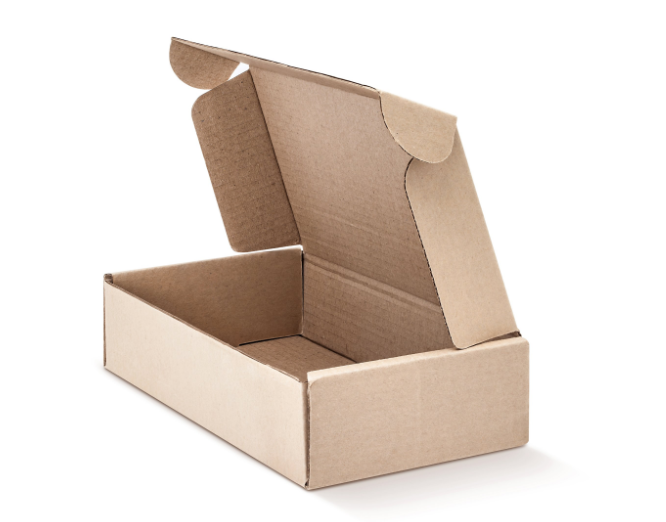
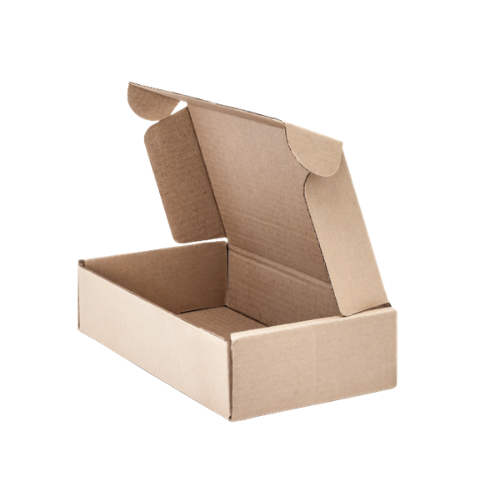
poprawnienie grafiki oraz dodanie animacji

diff --git a/resources/views/contacts.blade.php b/resources/views/contacts.blade.php
@@ -9,30 +9,62 @@
 @endsection
     
 @section('content')
-<section id="contact-details" class="bg-gray-100 pt-8">
+<section id="contact-details" class="py-12" data-aos="fade-up">
     <div class="container mx-auto px-4 py-12">
 
-        <h2 class="mb-4 text-2xl font-bold text-gray-900">Kontak do biura</h2>
-        <p class="text-gray-600">
-            <a href="mailto:biuro@marpol-opakowania.pl" class="hover:text-blue-600">biuro@marpol-opakowania.pl</a>
-        </p>
-        <p class="text-gray-600">
-            <a href="tel:+48600600600" class="hover:text-blue-600">+48 600 600 600</a>
-        </p>
+        <div class="grid gap-8 md:grid-cols-2">
+            <div class="flex flex-col items-center rounded-2xl bg-white/80 shadow-sm ring-1 ring-gray-200/60 p-8 text-center" data-aos="flip-up" data-aos-delay="100">
+                <div class="mb-4 inline-flex h-16 w-16 items-center justify-center rounded-full bg-blue-500/10">
+                    <img src="{{ asset('assets/images/icons/company.png') }}" alt="Ikona biura" class="h-10 w-10 object-contain">
+                </div>
+                <h2 class="text-lg font-semibold text-gray-900 mb-2">Kontakt do biura</h2>
+                <p class="text-sm text-gray-600 mb-4">
+                    Biuro obsługi klienta – informacje ogólne i administracyjne.
+                </p>
+                <div class="space-y-2 text-sm text-gray-700">
+                    <p>
+                        <a href="mailto:kontakt@marpol-opakowania.pl" class="inline-flex items-center justify-center gap-2 hover:text-blue-600">
+                            <img src="{{ asset('assets/images/icons/mail.png') }}" alt="" class="h-4 w-4">
+                            <span>kontakt@marpol-opakowania.pl</span>
+                        </a>
+                    </p>
+                    <p>
+                        <a href="tel:+48600600600" class="inline-flex items-center justify-center gap-2 hover:text-blue-600">
+                            <img src="{{ asset('assets/images/icons/phone.png') }}" alt="" class="h-4 w-4">
+                            <span>+48 600 600 600</span>
+                        </a>
+                    </p>
+                </div>
+            </div>
 
-
-
-        <h2 class="mb-4 text-2xl font-bold text-gray-900">Kontakt do działu sprzedaży</h2>
-        <p class="text-gray-600">
-            <a href="mailto:sprzedaz@marpol-opakowania.pl" class="hover:text-blue-600">sprzedaz@marpol-opakowania.pl</a>
-        </p>
-        <p class="text-gray-600">
-            <a href="tel:+48600600600" class="hover:text-blue-600">+48 600 600 600</a>
-        </p>
+            <div class="flex flex-col items-center rounded-2xl bg-white/80 shadow-sm ring-1 ring-gray-200/60 p-8 text-center" data-aos="flip-up" data-aos-delay="200">
+                <div class="mb-4 inline-flex h-16 w-16 items-center justify-center rounded-full bg-emerald-500/10">
+                    <img src="{{ asset('assets/images/icons/sales.png') }}" alt="Ikona działu sprzedaży" class="h-10 w-10 object-contain">
+                </div>
+                <h2 class="text-lg font-semibold text-gray-900 mb-2">Kontakt do działu sprzedaży</h2>
+                <p class="text-sm text-gray-600 mb-4">
+                    Zapytania ofertowe, wyceny opakowań oraz bieżąca obsługa zamówień.
+                </p>
+                <div class="space-y-2 text-sm text-gray-700">
+                    <p>
+                        <a href="mailto:sprzedaz@marpol-opakowania.pl" class="inline-flex items-center justify-center gap-2 hover:text-blue-600">
+                            <img src="{{ asset('assets/images/icons/mail.png') }}" alt="" class="h-4 w-4">
+                            <span>sprzedaz@marpol-opakowania.pl</span>
+                        </a>
+                    </p>
+                    <p>
+                        <a href="tel:+48600600600" class="inline-flex items-center justify-center gap-2 hover:text-blue-600">
+                            <img src="{{ asset('assets/images/icons/phone.png') }}" alt="" class="h-4 w-4">
+                            <span>+48 600 600 600</span>
+                        </a>
+                    </p>
+                </div>
+            </div>
+        </div>
 
 </section>
 
-<section id="contact-form" class="bg-gray-100 pt-8">
+<section id="contact-form" class="py-12" data-aos="fade-up">
     <div class="container mx-auto px-4 py-12">
         
 
@@ -45,7 +77,7 @@
         <div class="grid gap-10 md:grid-cols-2 items-stretch">
 
             <!-- Lewa kolumna: nagłówek + formularz -->
-            <div class="flex flex-col">
+            <div class="flex flex-col" data-aos="flip-up" data-aos-delay="100">
                 <h2 class="mb-4 text-2xl font-bold text-gray-900">Formularz kontaktowy</h2>
                 <form
                     id="contact-form"
@@ -63,7 +95,7 @@
                         value="{{ old('name') }}"
                         required
                         class="block w-full rounded-base border border-default bg-gray-50 px-3 py-2 text-sm text-gray-900 focus:border-brand focus:ring-brand @error('name') border-red-500 focus:border-red-500 focus:ring-red-500 @enderror"
-                        placeholder="Twoje imię i nazwisko"
+                        placeholder="Jan Kowalski..."
                     >
                     @error('name')
                         <p class="mt-1 text-xs text-red-600">{{ $message }}</p>
@@ -79,7 +111,7 @@
                         value="{{ old('email') }}"
                         required
                         class="block w-full rounded-base border border-default bg-gray-50 px-3 py-2 text-sm text-gray-900 focus:border-brand focus:ring-brand @error('email') border-red-500 focus:border-red-500 focus:ring-red-500 @enderror"
-                        placeholder="twoj.email@example.com"
+                        placeholder="jan.kowalski@example.com..."
                     >
                     @error('email')
                         <p class="mt-1 text-xs text-red-600">{{ $message }}</p>
@@ -94,7 +126,7 @@
                         name="phone"
                         value="{{ old('phone') }}"
                         class="block w-full rounded-base border border-default bg-gray-50 px-3 py-2 text-sm text-gray-900 focus:border-brand focus:ring-brand @error('phone') border-red-500 focus:border-red-500 focus:ring-red-500 @enderror"
-                        placeholder="+48 123 456 789"
+                        placeholder="+48 123 456 789..."
                     >
                     @error('phone')
                         <p class="mt-1 text-xs text-red-600">{{ $message }}</p>
@@ -138,7 +170,7 @@
             </div>
 
             <!-- Prawa kolumna: nagłówek + mapa -->
-            <div class="flex flex-col">
+            <div class="flex flex-col" data-aos="flip-up" data-aos-delay="200">
                 <h2 class="mb-4 text-2xl font-bold text-gray-900">Nasza lokalizacja</h2>
                 <div class="flex-1 overflow-hidden rounded-2xl shadow-sm ring-1 ring-gray-200/70">
                     <iframe

diff --git a/resources/views/home.blade.php b/resources/views/home.blade.php
@@ -76,19 +76,19 @@
                 <div class="grid grid-cols-2 sm:grid-cols-2 gap-6 md:gap-8 justify-items-center">
                     
                     <a href="https://hellermanntyton.pl" target="_blank" rel="noopener noreferrer" data-aos="flip-up" data-aos-delay="100">
-                        <img src="{{ asset('assets/images/ht_logo.png') }}" alt="HellermannTyton"
+                        <img src="{{ asset('assets/images/logos/ht-logo.png') }}" alt="HellermannTyton"
                              class="h-18 md:h-24 w-auto object-contain grayscale hover:grayscale-0 opacity-80 hover:opacity-100 transition-all">
                     </a>
                     <a href="http://ceglewski.com.pl/" target="_blank" rel="noopener noreferrer" data-aos="flip-up" data-aos-delay="200">
-                        <img src="{{ asset('assets/images/ceglewski_logo.png') }}" alt="Meble Ceglewski"
+                        <img src="{{ asset('assets/images/logos/ceglewski-logo.png') }}" alt="Meble Ceglewski"
                              class="h-18 md:h-24 w-auto object-contain grayscale hover:grayscale-0 opacity-80 hover:opacity-100 transition-all">
                     </a>
                     <a href="https://smu.com.pl" target="_blank" rel="noopener noreferrer" data-aos="flip-up" data-aos-delay="300">
-                        <img src="{{ asset('assets/images/smu_logo.png') }}" alt="Mleczarnia Strzałkowo"
+                        <img src="{{ asset('assets/images/logos/smu-logo.png') }}" alt="Mleczarnia Strzałkowo"
                              class="h-18 md:h-24 w-auto object-contain grayscale hover:grayscale-0 opacity-80 hover:opacity-100 transition-all">
                     </a>
                     <a href="https://intermeble.pl" target="_blank" rel="noopener noreferrer" data-aos="flip-up" data-aos-delay="400">
-                        <img src="{{ asset('assets/images/inter_logo.png') }}" alt="Intermeble"
+                        <img src="{{ asset('assets/images/logos/intermeble-logo.png') }}" alt="Intermeble"
                              class="h-18 md:h-24 w-auto object-contain grayscale hover:grayscale-0 opacity-80 hover:opacity-100 transition-all">
                     </a>
                 </div>
@@ -102,7 +102,7 @@
             <div class="grid gap-4 sm:gap-6 md:grid-cols-4">
                 <article class="bg-white rounded-xl shadow-sm ring-1 ring-gray-200/70 overflow-hidden flex flex-col" data-aos="flip-up" data-aos-delay="100">
                     <a href="/produkty/kartony-klapowe" class="block aspect-[4/3] overflow-hidden bg-gray-200">
-                        <img src="{{ asset('assets/images/kartony-klapowe.png') }}" alt="Kartony klapowe" class="w-full h-full object-cover hover:scale-105 transition-transform duration-300">
+                        <img src="{{ asset('assets/images/kartony-klapowe.png') }}" alt="Kartony klapowe" class="w-full h-full object-cover hover:scale-105 transition-transform duration-300 bg-white">
                     </a>
                     <div class="p-4 flex flex-col flex-1">
                         <h3 class="text-base font-semibold text-gray-900 mb-2">Kartony klapowe</h3>
@@ -113,7 +113,7 @@
                 </article>
                 <article class="bg-white rounded-xl shadow-sm ring-1 ring-gray-200/70 overflow-hidden flex flex-col" data-aos="flip-up" data-aos-delay="200">
                     <a href="/produkty/kartony-fasonowe" class="block aspect-[4/3] overflow-hidden bg-gray-200">
-                        <img src="{{ asset('assets/images/kartony-fasonowe.png') }}" alt="Kartony fasonowe" class="w-full h-full object-cover hover:scale-105 transition-transform duration-300">
+                        <img src="{{ asset('assets/images/kartony-fasonowe.png') }}" alt="Kartony fasonowe" class="w-full h-full object-cover hover:scale-105 transition-transform duration-300 bg-white">
                     </a>
                     <div class="p-4 flex flex-col flex-1">
                         <h3 class="text-base font-semibold text-gray-900 mb-2">Kartony fasonowe</h3>
@@ -124,7 +124,7 @@
                 </article>
                 <article class="bg-white rounded-xl shadow-sm ring-1 ring-gray-200/70 overflow-hidden flex flex-col" data-aos="flip-up" data-aos-delay="300">
                     <a href="/produkty/tektury" class="block aspect-[4/3] overflow-hidden bg-gray-200">
-                        <img src="{{ asset('assets/images/tektury.png') }}" alt="Tektury" class="w-full h-full object-cover hover:scale-105 transition-transform duration-300">
+                        <img src="{{ asset('assets/images/tektury.png') }}" alt="Tektury" class="w-full h-full object-cover hover:scale-105 transition-transform duration-300 bg-white">
                     </a>
                     <div class="p-4 flex flex-col flex-1">
                         <h3 class="text-base font-semibold text-gray-900 mb-2">Tektury</h3>
@@ -135,7 +135,7 @@
                 </article>
                 <article class="bg-white rounded-xl shadow-sm ring-1 ring-gray-200/70 overflow-hidden flex flex-col" data-aos="flip-up" data-aos-delay="400">
                     <a href="/produkty/wypelniacze" class="block aspect-[4/3] overflow-hidden bg-gray-200">
-                        <img src="{{ asset('assets/images/wypelniacze.png') }}" alt="Wypełniacze opakowań" class="w-full h-full object-cover hover:scale-105 transition-transform duration-300">
+                        <img src="{{ asset('assets/images/wypelniacze.png') }}" alt="Wypełniacze opakowań" class="w-full h-full object-cover hover:scale-105 transition-transform duration-300 bg-white">
                     </a>
                     <div class="p-4 flex flex-col flex-1">
                         <h3 class="text-base font-semibold text-gray-900 mb-2">Wypełniacze opakowań</h3>

diff --git a/resources/views/products.blade.php b/resources/views/products.blade.php
@@ -9,5 +9,106 @@
 @endsection
     
 @section('content')
+<section class="bg-gray-100 py-12">
+    <div class="container mx-auto px-4 space-y-12">
+
+        {{-- Kartony klapowe --}}
+        <div class="flex flex-col md:flex-row items-center gap-8 md:gap-12">
+            <div class="md:w-1/2 flex justify-center" data-aos="fade-right" data-aos-delay="100">
+                <img
+                    src="{{ asset('assets/images/kartony-klapowe.png') }}"
+                    alt="Kartony klapowe"
+                    class="max-w-md w-full object-contain"
+                >
+            </div>
+            <div class="md:w-1/2 space-y-4" data-aos="fade-up">
+                <h2 class="text-2xl font-bold text-gray-900">Kartony klapowe</h2>
+                <p class="text-sm md:text-base text-gray-700">
+                    Klasyczne kartony klapowe do transportu i magazynowania produktów – dostępne w wielu rozmiarach
+                    i gramaturach tektury, z możliwością dostosowania do Twoich wymagań logistycznych.
+                </p>
+                <a
+                    href="/produkty/kartony-klapowe"
+                    class="inline-flex items-center justify-center rounded-lg bg-black px-4 py-2.5 text-sm font-medium text-white hover:bg-black/80 transition-colors"
+                >
+                    Dowiedz się więcej
+                </a>
+            </div>
+        </div>
+
+        {{-- Kartony fasonowe --}}
+        <div class="flex flex-row-reverse items-center gap-8 md:gap-12">
+            <div class="md:w-1/2 flex justify-center" data-aos="fade-left" data-aos-delay="100">
+                <img
+                    src="{{ asset('assets/images/kartony-fasonowe.png') }}"
+                    alt="Kartony fasonowe"
+                    class="max-w-md w-full object-contain"
+                >
+            </div>
+            <div class="md:w-1/2 space-y-4" data-aos="fade-up">
+                <h2 class="text-2xl font-bold text-gray-900">Kartony fasonowe</h2>
+                <p class="text-sm md:text-base text-gray-700">
+                    Opakowania fasonowe dopasowane do kształtu produktu – estetyczne, wygodne w składaniu
+                    i idealne do wysyłek e‑commerce lub ekspozycji na półce.
+                </p>
+                <a
+                    href="/produkty/kartony-fasonowe"
+                    class="inline-flex items-center justify-center rounded-lg bg-black px-4 py-2.5 text-sm font-medium text-white hover:bg-black/80 transition-colors"
+                >
+                    Dowiedz się więcej
+                </a>
+            </div>
+        </div>
+
+        {{-- Tektury --}}
+        <div class="flex flex-col md:flex-row items-center gap-8 md:gap-12">
+            <div class="md:w-1/2 flex justify-center" data-aos="fade-right" data-aos-delay="100">
+                <img
+                    src="{{ asset('assets/images/tektury.png') }}"
+                    alt="Tektury"
+                    class="max-w-md w-full object-contain"
+                >
+            </div>
+            <div class="md:w-1/2 space-y-4" data-aos="fade-up">
+                <h2 class="text-2xl font-bold text-gray-900">Tektury</h2>
+                <p class="text-sm md:text-base text-gray-700">
+                    Tektury lite i faliste do przekładek, zabezpieczeń oraz indywidualnych projektów opakowań.
+                    Dobieramy strukturę i gramaturę do wymagań produktu.
+                </p>
+                <a
+                    href="/produkty/tektury"
+                    class="inline-flex items-center justify-center rounded-lg bg-black px-4 py-2.5 text-sm font-medium text-white hover:bg-black/80 transition-colors"
+                >
+                    Dowiedz się więcej
+                </a>
+            </div>
+        </div>
+
+        {{-- Wypełniacze --}}
+        <div class="flex flex-row-reverse items-center gap-8 md:gap-12">
+            <div class="md:w-1/2 flex justify-center" data-aos="fade-left" data-aos-delay="100">
+                <img
+                    src="{{ asset('assets/images/wypelniacze.png') }}"
+                    alt="Wypełniacze opakowań"
+                    class="max-w-md w-full object-contain"
+                >
+            </div>
+            <div class="md:w-1/2 space-y-4" data-aos="fade-up">
+                <h2 class="text-2xl font-bold text-gray-900">Wypełniacze opakowań</h2>
+                <p class="text-sm md:text-base text-gray-700">
+                    Papierowe i kartonowe wypełniacze, które stabilizują produkt w kartonie i chronią go
+                    przed uszkodzeniami podczas transportu.
+                </p>
+                <a
+                    href="/produkty/wypelniacze"
+                    class="inline-flex items-center justify-center rounded-lg bg-black px-4 py-2.5 text-sm font-medium text-white hover:bg-black/80 transition-colors"
+                >
+                    Dowiedz się więcej
+                </a>
+            </div>
+        </div>
+
+    </div>
+</section>
     
 @endsection

diff --git a/resources/views/about.blade.php b/resources/views/about.blade.php
@@ -20,7 +20,7 @@ Trochę o naszej historii oraz naszych wartościach.
             <!-- Rozwój -->
             <div class="flex flex-col items-center rounded-2xl bg-white/80 shadow-sm ring-1 ring-gray-200/60 p-8 text-center" data-aos="flip-up" data-aos-delay="100">
                 <div class="mb-5 inline-flex h-20 w-20 items-center justify-center rounded-full bg-blue-500/10">
-                    <img src="{{ asset('assets/images/chart.png') }}" alt="Rozwój" class="h-16 w-16 object-contain rounded-full">
+                    <img src="{{ asset('assets/images/icons/chart.png') }}" alt="Rozwój" class="h-16 w-16 object-contain rounded-full">
                 </div>
                 <h3 class="mb-3 text-xl font-semibold text-gray-900">Rozwój</h3>
                 <p class="text-sm text-gray-600">
@@ -32,7 +32,7 @@ Trochę o naszej historii oraz naszych wartościach.
             <!-- Trwałe rozwiązania -->
             <div class="flex flex-col items-center rounded-2xl bg-white/80 shadow-sm ring-1 ring-gray-200/60 p-8 text-center" data-aos="flip-up" data-aos-delay="200">
                 <div class="mb-5 inline-flex h-20 w-20 items-center justify-center rounded-full bg-yellow-500/10">
-                    <img src="{{ asset('assets/images/delivery-box.png') }}" alt="Trwałe rozwiązania" class="h-16 w-16 object-contain">
+                    <img src="{{ asset('assets/images/icons/box.png') }}" alt="Trwałe rozwiązania" class="h-16 w-16 object-contain">
                 </div>
                 <h3 class="mb-3 text-xl font-semibold text-gray-900">Trwałe rozwiązania</h3>
                 <p class="text-sm text-gray-600">
@@ -44,7 +44,7 @@ Trochę o naszej historii oraz naszych wartościach.
             <!-- Ekologia -->
             <div class="flex flex-col items-center rounded-2xl bg-white/80 shadow-sm ring-1 ring-gray-200/60 p-8 text-center" data-aos="flip-up" data-aos-delay="300">
                 <div class="mb-5 inline-flex h-20 w-20 items-center justify-center rounded-full bg-emerald-500/10">
-                    <img src="{{ asset('assets/images/eco-icon.png') }}" alt="Ekologia" class="h-16 w-16 object-contain">
+                    <img src="{{ asset('assets/images/icons/eco.png') }}" alt="Ekologia" class="h-16 w-16 object-contain">
                 </div>
                 <h3 class="mb-3 text-xl font-semibold text-gray-900">Ekologia</h3>
                 <p class="text-sm text-gray-600">

diff --git a/resources/views/partials/navbar.blade.php b/resources/views/partials/navbar.blade.php
@@ -3,7 +3,7 @@
         <!-- Logo z lewej -->
         <div class="flex items-center">
             <a href="{{ url('/') }}" class="flex items-center space-x-3 rtl:space-x-reverse">
-                <img src="{{ asset('assets/images/logo.png') }}" class="h-20 w-auto" alt="Logo" />
+                <img src="{{ asset('assets/images/logos/marpol-logo.png') }}" class="h-20 w-auto" alt="Logo" />
             </a>
         </div>
 
@@ -12,7 +12,6 @@
             <div class="hidden md:flex md:space-x-8 rtl:space-x-reverse">
                 <a href="/o-nas" class="block py-2 px-3 text-lg text-heading rounded hover:bg-neutral-tertiary md:hover:bg-transparent md:border-0 md:hover:text-fg-brand md:p-0">O nas</a>
                 <a href="/produkty" class="block py-2 px-3 text-lg text-heading rounded hover:bg-neutral-tertiary md:hover:bg-transparent md:border-0 md:hover:text-fg-brand md:p-0">Produkty</a>
-                <a href="/procesy" class="block py-2 px-3 text-lg text-heading rounded hover:bg-neutral-tertiary md:hover:bg-transparent md:border-0 md:hover:text-fg-brand md:p-0">Procesy</a>
                 <a href="/kontakt" class="block py-2 px-3 text-lg text-heading rounded hover:bg-neutral-tertiary md:hover:bg-transparent md:border-0 md:hover:text-fg-brand md:p-0">Kontakt</a>
             </div>
         </div>

diff --git a/routes/web.php b/routes/web.php
@@ -28,8 +28,8 @@ Route::get('/produkty/wypelniacze', function () {
     return view('products.filling');
 });
 
-Route::get('/procesy', function () {
-    return view('processes');
+Route::get('/polityka-prywatnosci', function () {
+    return view('privacy');
 });
 Route::view('/kontakt', 'contacts')->name('contact.show');
 Route::post('/kontakt', [ContactController::class, 'submit'])->name('contact.submit');

diff --git a/resources/views/partials/hero.blade.php b/resources/views/partials/hero.blade.php
@@ -34,7 +34,7 @@
             </div>
             <div class="relative flex justify-center md:justify-end h-40 md:h-48">
                 <img
-                    src="{{ asset('assets/images/boxes.png') }}"
+                    src="{{ asset('assets/images/icons/boxes.png') }}"
                     alt="Box-Icon"
                     class="h-full md:h-full w-auto md:scale-200 transform"
                 >

diff --git a/resources/views/partials/footer.blade.php b/resources/views/partials/footer.blade.php
@@ -59,7 +59,7 @@
                 aria-label="Powered by CORPOTECH"
             >
                 <span class="mr-2 text-white/70">Projekt i realizacja: </span>
-                <img src="/assets/images/ct-white.png" alt="CORPOTECH" class="h-8 w-auto">
+                <img src="/assets/images/logos/ct-white-logo.png" alt="CORPOTECH" class="h-8 w-auto">
             </a>
         </div>
     </div>

diff --git a/resources/views/privacy.blade.php b/resources/views/privacy.blade.php
@@ -1,0 +1,13 @@
+@extends('layouts.subpage')
+
+@section('title')
+    Polityka prywatności
+@endsection
+
+@section('content')
+    <section id="privacy">
+        <div class="container mx-auto px-4 py-12">
+            
+        </div>
+    </section>
+@endsection
